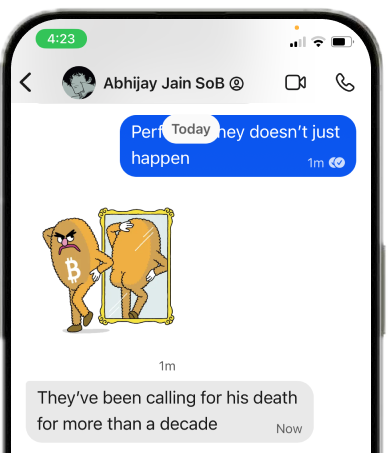
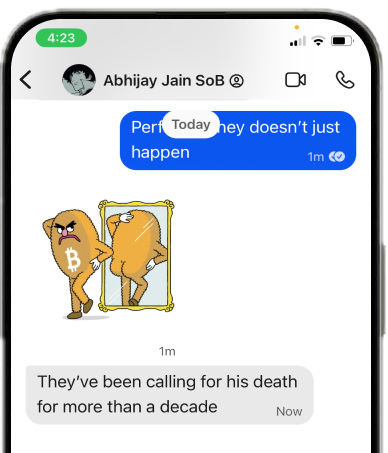
(Fix): Fixed alignement for strickerset section

diff --git a/src/components/StrickerSet/StickerSet.tsx b/src/components/StrickerSet/StickerSet.tsx
@@ -1,13 +1,15 @@
 import React from 'react';
 import { Box, Heading, Text, Flex, Image, VStack, Stack } from '@chakra-ui/react';
 import CustomButton from '../CustomButton/CustomButton';
+import { loadGetInitialProps } from 'next/dist/shared/lib/utils';
 
 const StickerSet = () => {
   return (
     <Box bg="#FFF1E5" w="full" overflow="hidden" px={{
       base: 6,
       lg: "100px",
-    }}>
+    }}
+>
       <Flex
         direction={{ base: 'column', md: 'row' }}
         mx="auto"
@@ -77,9 +79,10 @@ const StickerSet = () => {
           <Box
             position="relative"
             w={{ base: 'full', md: 'auto' }}
-            maxW={{ base: '200px', md: '250px' }}
-            mr={{ base: 0, md: '5%' }}
-            mt={{ base: 0, md: '100px' }}
+            maxW={{ base: '200px', md: '300px' }}
+            mr={{ base: 0, md: '3%' }}
+            mt={{ base: 0, md: '180px' }}
+            mb={{ base: 0, md: '-10px' }}
           >
             <Image
               src="/assets/StrickerSetImages/Mobile-preview-One.png"
@@ -94,9 +97,9 @@ const StickerSet = () => {
           <Box
             position="relative"
             w={{ base: 'full', md: 'auto' }}
-            maxW={{ base: '200px', md: '250px' }}
+            maxW={{ base: '200px', md: '300px' }}
             ml={{ base: 0, md: '10%' }}
-            mt={{ base: 0, md: '-100px' }}
+            mt={{ base: 0, md: '-170px' }}
           >
             <Image
               src="/assets/StrickerSetImages/Mobile-preview-Two.png"
